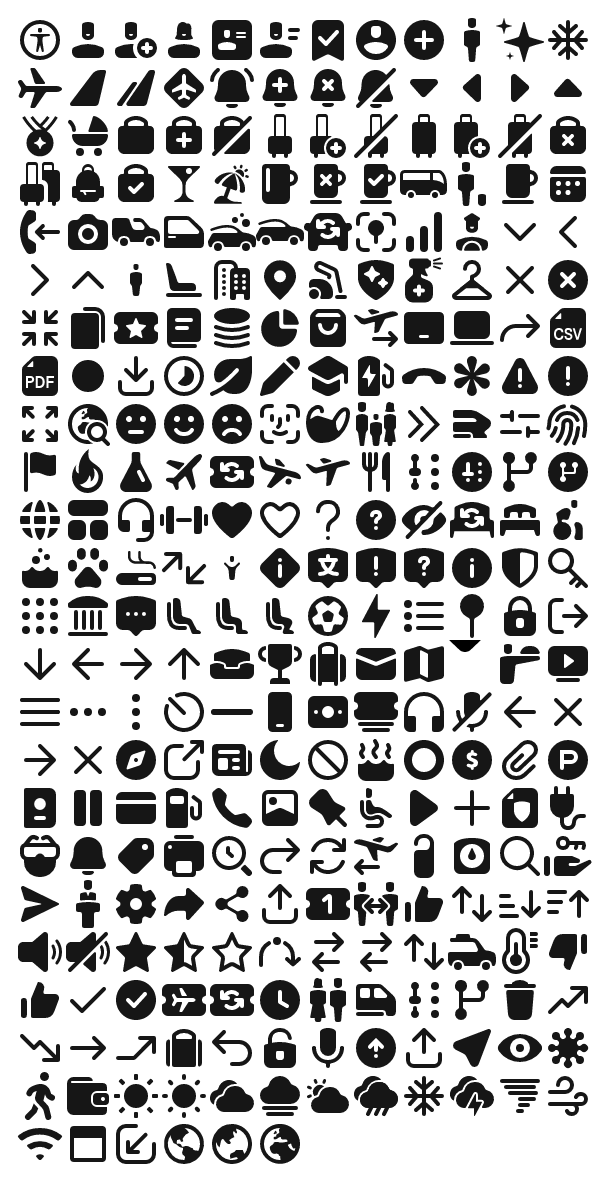
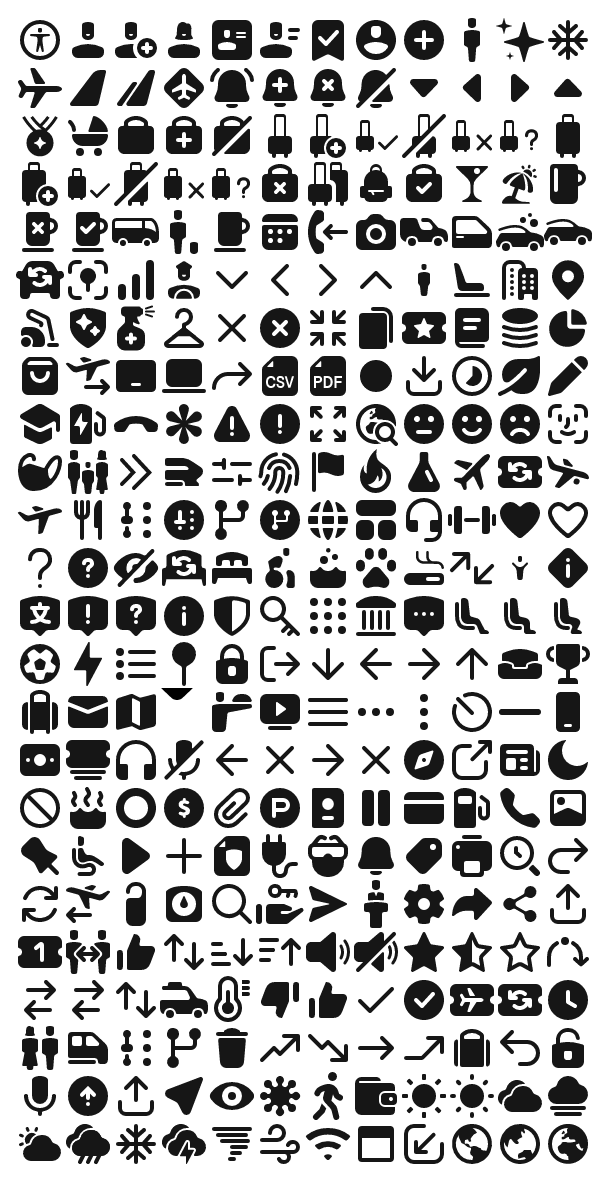
Update @skyscanner/bpk-svgs dependency to 20.10.0 (#2500)
* Initial plan

* Update bpk-svg dependency from 20.9.3 to 20.10.0

* [No-jira]  update bvg

* Generate new baggage icons from bpk-svg 20.10.0

Add generated icon files for the new baggage icon variants introduced in bpk-svg 20.10.0:
- BaggageCabinIncludedTick
- BaggageCabinNotIncludedCross
- BaggageCabinUncertain
- BaggageCheckedIncludedTick
- BaggageCheckedNotIncludedCross
- BaggageCheckedUncertain

🤖 Generated with [Claude Code](https://claude.com/claude-code)

* Updated snapshots

---------

Changed region(s): [[0.0312, 0.0938, 0.9688, 1.0]]

diff --git a/backpack-compose/src/main/kotlin/net/skyscanner/backpack/compose/tokens/BpkIcon.kt b/backpack-compose/src/main/kotlin/net/skyscanner/backpack/compose/tokens/BpkIcon.kt
@@ -268,11 +268,35 @@ public val BpkIcon.Companion.BaggageCabinAdd: BpkIcon by Delegates.singleton(
     )
 )
 
+public val BpkIcon.Companion.BaggageCabinIncludedTick: BpkIcon by Delegates.singleton(
+    BpkIcon(
+        name = "baggage-cabin-included-tick",
+        small = R.drawable.bpk_baggage_cabin_included_tick_sm,
+        large = R.drawable.bpk_baggage_cabin_included_tick,
+    )
+)
+
 public val BpkIcon.Companion.BaggageCabinNotIncluded: BpkIcon by Delegates.singleton(
     BpkIcon(
         name = "baggage-cabin-not-included",
         small = R.drawable.bpk_baggage_cabin_not_included_sm,
         large = R.drawable.bpk_baggage_cabin_not_included,
+    )
+)
+
+public val BpkIcon.Companion.BaggageCabinNotIncludedCross: BpkIcon by Delegates.singleton(
+    BpkIcon(
+        name = "baggage-cabin-not-included-cross",
+        small = R.drawable.bpk_baggage_cabin_not_included_cross_sm,
+        large = R.drawable.bpk_baggage_cabin_not_included_cross,
+    )
+)
+
+public val BpkIcon.Companion.BaggageCabinUncertain: BpkIcon by Delegates.singleton(
+    BpkIcon(
+        name = "baggage-cabin-uncertain",
+        small = R.drawable.bpk_baggage_cabin_uncertain_sm,
+        large = R.drawable.bpk_baggage_cabin_uncertain,
     )
 )
 
@@ -292,11 +316,35 @@ public val BpkIcon.Companion.BaggageCheckedAdd: BpkIcon by Delegates.singleton(
     )
 )
 
+public val BpkIcon.Companion.BaggageCheckedIncludedTick: BpkIcon by Delegates.singleton(
+    BpkIcon(
+        name = "baggage-checked-included-tick",
+        small = R.drawable.bpk_baggage_checked_included_tick_sm,
+        large = R.drawable.bpk_baggage_checked_included_tick,
+    )
+)
+
 public val BpkIcon.Companion.BaggageCheckedNotIncluded: BpkIcon by Delegates.singleton(
     BpkIcon(
         name = "baggage-checked-not-included",
         small = R.drawable.bpk_baggage_checked_not_included_sm,
         large = R.drawable.bpk_baggage_checked_not_included,
+    )
+)
+
+public val BpkIcon.Companion.BaggageCheckedNotIncludedCross: BpkIcon by Delegates.singleton(
+    BpkIcon(
+        name = "baggage-checked-not-included-cross",
+        small = R.drawable.bpk_baggage_checked_not_included_cross_sm,
+        large = R.drawable.bpk_baggage_checked_not_included_cross,
+    )
+)
+
+public val BpkIcon.Companion.BaggageCheckedUncertain: BpkIcon by Delegates.singleton(
+    BpkIcon(
+        name = "baggage-checked-uncertain",
+        small = R.drawable.bpk_baggage_checked_uncertain_sm,
+        large = R.drawable.bpk_baggage_checked_uncertain,
     )
 )
 
@@ -2316,10 +2364,16 @@ public val BpkIcon.Companion.values: List<BpkIcon> by Delegates.singleton(
         BpkIcon.BaggageAdd,
         BpkIcon.BaggageCabin,
         BpkIcon.BaggageCabinAdd,
+        BpkIcon.BaggageCabinIncludedTick,
         BpkIcon.BaggageCabinNotIncluded,
+        BpkIcon.BaggageCabinNotIncludedCross,
+        BpkIcon.BaggageCabinUncertain,
         BpkIcon.BaggageChecked,
         BpkIcon.BaggageCheckedAdd,
+        BpkIcon.BaggageCheckedIncludedTick,
         BpkIcon.BaggageCheckedNotIncluded,
+        BpkIcon.BaggageCheckedNotIncludedCross,
+        BpkIcon.BaggageCheckedUncertain,
         BpkIcon.BaggageCross,
         BpkIcon.BaggageGeneric,
         BpkIcon.BaggagePersonalItem,
